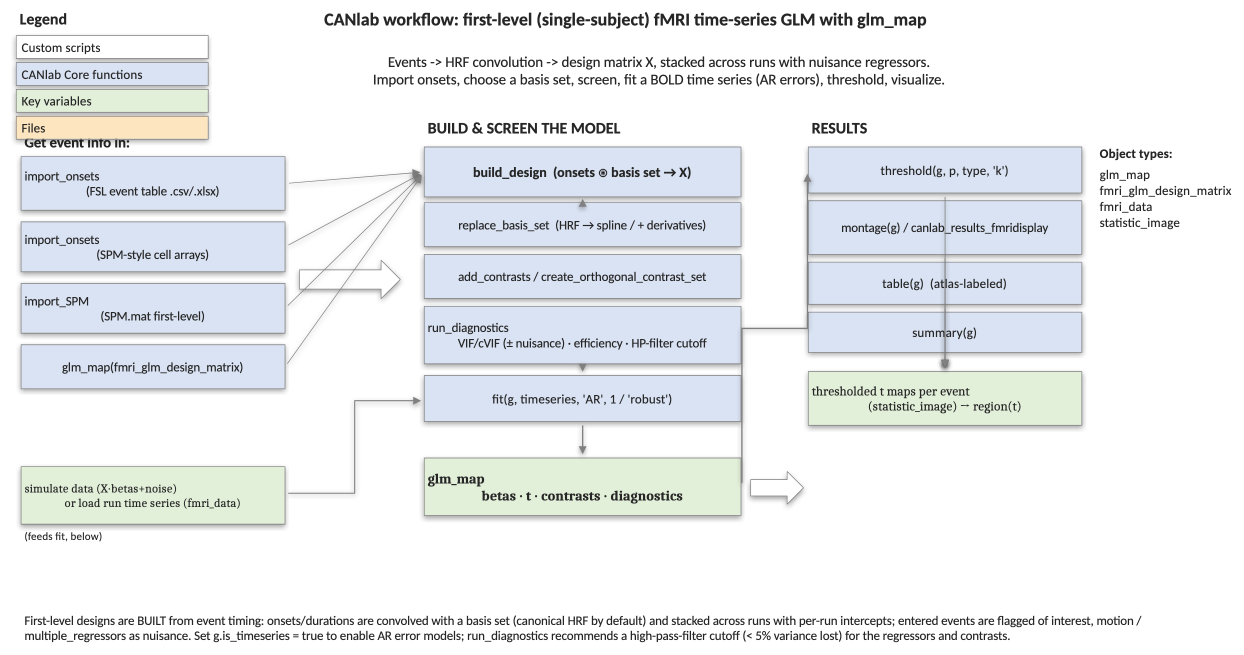
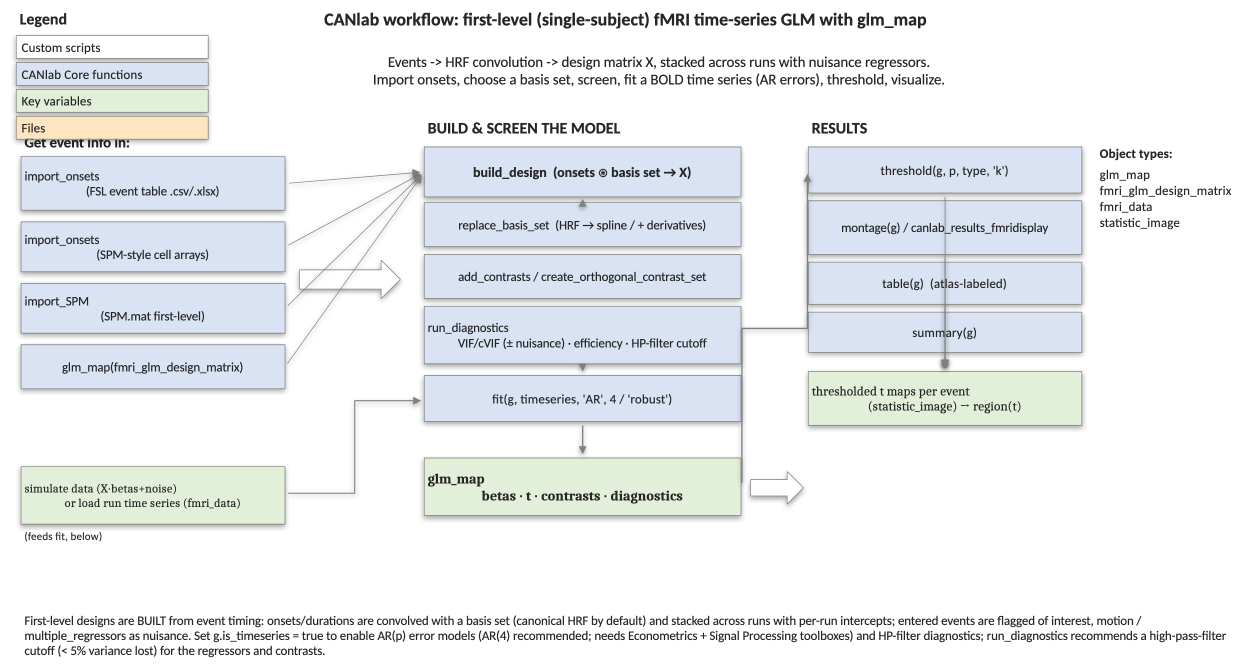
glm_map: AR(4) recommendation, early AR-dependency check, sim_data note
First-level roadmap/how-to + glm_map fit:
- Recommend AR(4) over AR(1) for time-series error models (better captures
  BOLD serial autocorrelation; ~ARMA(1,1)).
- fit() now checks AR dependencies up front (fgls/Econometrics,
  aryule/Signal Processing) and errors with a clear, actionable message if
  either toolbox is missing, instead of failing mid per-voxel fit.
- Document the AR toolbox dependencies in fit.m, the roadmap, the how-to,
  and the object page.
- Note that g.is_timeseries = true also switches run_diagnostics into
  time-series mode (HP-filter cumulative-power assessment).
- Reference fmri_data.sim_data for synthetic signal+noise data (with its
  real single-predictor interface), alongside the X*betas+noise construction
  used for a custom convolved design.
- Regenerate the first-level roadmap PNG/PPTX.

diff --git a/CanlabCore/@glm_map/fit.m b/CanlabCore/@glm_map/fit.m
@@ -28,8 +28,15 @@ function obj = fit(obj, data, varargin)
 %        Use robust (bisquare) regression. Passed through to fmri_data.regress.
 %
 %   **'AR', [order]:**
-%        Use an autoregressive error model of the given order. Only valid
-%        when obj.is_timeseries is true.
+%        Use an autoregressive AR(p) error model of the given order. Only
+%        valid when obj.is_timeseries is true. AR(4) is recommended for
+%        typical BOLD time series (it captures the low-order serial
+%        autocorrelation better than AR(1) and approximates an ARMA(1,1)
+%        process). Requires two additional toolboxes, which are checked for
+%        up front and reported clearly if missing:
+%          - Econometrics Toolbox (fgls)        — the GLS fit
+%          - Signal Processing Toolbox (aryule) — AR-coefficient estimation
+%        Estimation loops over voxels, so whole-brain AR fits are slow.
 %
 %   **'pthresh', [p-value]:**
 %        Initial threshold p-value applied to the t/contrast_t maps
@@ -106,6 +113,23 @@ end
 if ar_order > 0 && ~obj.is_timeseries
     error('glm_map:ARnotTimeseries', ...
         'AR error models require obj.is_timeseries == true (within-run timeseries data).');
+end
+
+% Check AR-model dependencies up front and fail with a clear, actionable
+% message rather than partway through the per-voxel fit. AR(p) estimation
+% (fmri_data.regress -> fit_gls2) needs fgls (Econometrics Toolbox) for the
+% GLS fit and aryule (Signal Processing Toolbox) for the AR coefficients.
+if ar_order > 0
+    missing = {};
+    if isempty(which('fgls')),   missing{end + 1} = 'fgls (Econometrics Toolbox)'; end
+    if isempty(which('aryule')), missing{end + 1} = 'aryule (Signal Processing Toolbox)'; end
+    if ~isempty(missing)
+        error('glm_map:ARDependencyMissing', ...
+            ['AR(%d) error models require functions that are not on your path:\n  - %s\n' ...
+             'Install/license the listed toolbox(es), or fit without ''AR'' ' ...
+             '(OLS, or add ''robust'' to down-weight outlier time points).'], ...
+            ar_order, strjoin(missing, '\n  - '));
+    end
 end
 
 % Ensure a design matrix is available; build it for event/1st-level models

diff --git a/docs/_codemap_tools/build_glm_map_first_level_roadmap.py b/docs/_codemap_tools/build_glm_map_first_level_roadmap.py
@@ -52,7 +52,7 @@ def build() -> Slide:
           x=cx, y=2.74, w=cw, h=0.46, font_size=9.5)
     s.box("diag", "func", "run_diagnostics\nVIF/cVIF (± nuisance) · efficiency · HP-filter cutoff",
           x=cx, y=3.28, w=cw, h=0.60, font_size=9.5)
-    s.box("fit", "func", "fit(g, timeseries, 'AR', 1 / 'robust')",
+    s.box("fit", "func", "fit(g, timeseries, 'AR', 4 / 'robust')",
           x=cx, y=4.00, w=cw, h=0.48, font_size=10.0)
     for a, b in (("build", "basis"), ("basis", "contr"), ("contr", "diag"), ("diag", "fit")):
         s.connect_line(a, b, src_side="bottom", dst_side="top", weight=0.8)
@@ -88,8 +88,9 @@ def build() -> Slide:
     s._text(
         "First-level designs are BUILT from event timing: onsets/durations are convolved with a basis set (canonical HRF by "
         "default) and stacked across runs with per-run intercepts; entered events are flagged of interest, motion / "
-        "multiple_regressors as nuisance. Set g.is_timeseries = true to enable AR error models; run_diagnostics recommends a "
-        "high-pass-filter cutoff (< 5% variance lost) for the regressors and contrasts.",
+        "multiple_regressors as nuisance. Set g.is_timeseries = true to enable AR(p) error models (AR(4) recommended; needs "
+        "Econometrics + Signal Processing toolboxes) and HP-filter diagnostics; run_diagnostics recommends a high-pass-filter "
+        "cutoff (< 5% variance lost) for the regressors and contrasts.",
         x=0.35, y=6.45, w=12.6, h=0.7, size=9.5, align=PP_ALIGN.LEFT,
     )
     return s

diff --git a/docs/workflows/glm_map_first_level_roadmap.md b/docs/workflows/glm_map_first_level_roadmap.md
@@ -66,7 +66,10 @@ The basis set defines the assumed response shape:
   rebuilt; one line per basis function appears in each event's `plot_design`
   panel).
 
-Mark `g.is_timeseries = true` so that `fit` can use AR error models.
+Mark `g.is_timeseries = true` so that `fit` can use AR error models. This
+flag also switches `run_diagnostics` into time-series mode, adding the
+high-pass-filter cumulative-power assessment described below (which is skipped
+for static second-level designs).
 
 ---
 
@@ -94,14 +97,29 @@ reports:
 ## 5. Simulating data (for the demo) and fitting
 
 To exercise the pipeline without real scans, build a synthetic BOLD data set —
-`X · betas + noise` over a template brain space — then fit. On real data you
-load the run's time series as an `fmri_data` object instead.
+`X · betas + noise` over a template brain space. Borrow a brain space (e.g.
+`load_image_set('emotionreg')`) and set the data in one line —
+`sim.dat = single((g.X * betas_true + noise)')` (see the how-to). The built-in
+[`fmri_data.sim_data`](../fmri_data_methods.md) is the related one-liner for the
+simpler signal-plus-noise case (it uses its own single-predictor design rather
+than your convolved `X`):
+
+```matlab
+sim = sim_data(fmri_data, 'n', size(g.X,1), 'd', 1);   % synthetic signal + noise
+```
+
+On real data you load the run's time series as an `fmri_data` object instead.
 
 | Estimator | Call | When |
 |---|---|---|
 | **OLS** | `fit(g, data)` | fast baseline |
-| **AR(p)** | `fit(g, data, 'AR', 1)` | recommended for time series (accounts for serial autocorrelation) |
+| **AR(p)** | `fit(g, data, 'AR', 4)` | recommended for time series — AR(4) captures BOLD serial autocorrelation better than AR(1) |
 | **Robust** | `fit(g, data, 'robust')` | down-weights outlier time points |
+
+> **AR dependencies.** AR(p) fitting needs the **Econometrics Toolbox**
+> (`fgls`, the GLS fit) and the **Signal Processing Toolbox** (`aryule`, the
+> AR coefficients). `fit` checks for both up front and errors with a clear
+> message if either is missing — fall back to OLS or `'robust'` in that case.
 
 `fit` populates `betas`, `t`, `df`, `sigma`, and the diagnostics.
 
@@ -131,7 +149,7 @@ event info ── import_onsets (FSL table / SPM cells)   ─┐
         │
    run_diagnostics   (VIF/cVIF interest±nuisance, efficiency, HP-filter cutoff)
         │
-   fit(g, timeseries[, 'AR',1 / 'robust'])     ← simulate data, or load a run
+   fit(g, timeseries[, 'AR',4 / 'robust'])     ← simulate data, or load a run
         │
    threshold(g) → montage(g) / table(g) / summary(g)
 ```

diff --git a/docs/workflows/glm_map_first_level_howto.md b/docs/workflows/glm_map_first_level_howto.md
@@ -23,7 +23,7 @@ regressors per run** — no scanner required.
 | Change the basis set | `replace_basis_set(g, cond, xBF)` |
 | Add a contrast | `add_contrasts(g, C, names)` |
 | Screen the design | `run_diagnostics(g)` |
-| Fit (AR for time series) | `fit(g, data, 'AR', 1)` |
+| Fit (AR for time series) | `fit(g, data, 'AR', 4)` |
 | Threshold / visualize | `threshold(g, ...)`, `montage(g)` |
 
 ---
@@ -94,7 +94,7 @@ for s = 1:numel(nscan)
 end
 
 g = glm_map(d);
-g.is_timeseries = true;          % enable AR error models in fit
+g.is_timeseries = true;          % enable AR error models + HP-filter diagnostics
 g = build_design(g);            % onsets ⊛ canonical HRF -> X
 summary(g)                       % 660 obs x 33 reg (12 interest, 18 nuisance, 3 intercept)
 plot_design(g)
@@ -148,8 +148,12 @@ VIF = 1, 2, 4, 8.
 
 To exercise fitting without real scans, build a synthetic BOLD data set
 (`X · betas + noise`) in a template brain space; on real data you would load the
-run's time series as an `fmri_data` object instead. Fit with an AR(1) error
-model (appropriate for serially correlated BOLD).
+run's time series as an `fmri_data` object instead. Because we need data from a
+*specific* convolved design `g.X`, we set `X·betas + noise` directly (the
+built-in [`fmri_data.sim_data`](../fmri_data_methods.md) is a one-liner for the
+simpler signal-plus-noise case, but it uses its own single-predictor design
+rather than your `X`). Fit with an AR(4) error model — recommended for serially
+correlated BOLD (AR(4) captures the autocorrelation better than AR(1)).
 
 ```matlab
 template = load_image_set('emotionreg', 'noverbose');          % borrow a brain space
@@ -165,8 +169,14 @@ sim = template;
 sim.dat = single((g.X * betas_true + 3*randn(ntot, nvox))');    % [voxels x TRs]
 sim.images_per_session = g.design.nscan;
 
-g = fit(g, sim, 'AR', 1);       % autoregressive error model (use 'robust' to down-weight)
+g = fit(g, sim, 'AR', 4);       % autoregressive error model (use 'robust' to down-weight)
 ```
+
+> **AR(p) dependencies.** AR fitting requires the **Econometrics Toolbox**
+> (`fgls`) and the **Signal Processing Toolbox** (`aryule`). `fit` checks for
+> both before doing any work and errors with a clear message if either is
+> missing; fall back to OLS (`fit(g, sim)`) or `'robust'` in that case.
+> Estimation loops over voxels, so whole-brain AR fits are slow.
 
 ## Section F — Threshold and visualize
 

diff --git a/docs/glm_map_methods.md b/docs/glm_map_methods.md
@@ -161,7 +161,7 @@ they all return the **same** object type.
 
 | Method | What it does |
 |---|---|
-| `fit(g, data, ...)` | Run the regression on an `fmri_data` object (the compute engine is `fmri_data.regress`); populate `betas`, `t`, contrasts, `df`, `sigma`, and diagnostics. Options: `'robust'`, `'AR', order` (time series), `'residuals'`, `'pthresh'`, `'thresh_type'`. |
+| `fit(g, data, ...)` | Run the regression on an `fmri_data` object (the compute engine is `fmri_data.regress`); populate `betas`, `t`, contrasts, `df`, `sigma`, and diagnostics. Options: `'robust'`, `'AR', order` (time series; AR(4) recommended — needs Econometrics + Signal Processing toolboxes, checked up front), `'residuals'`, `'pthresh'`, `'thresh_type'`. |
 | `threshold(g, p, type, ...)` | Re-threshold the stored `t` / `contrast_t` maps without refitting (delegates to `statistic_image.threshold`). |
 | `table(g, which_map, ...)` | Atlas-labeled results table for a chosen map (`'t'`, `'betas'`, `'contrast'`, `'contrast_t'`). |
 | `montage(g, which_map, ...)` | Brain montage of a chosen result map. |